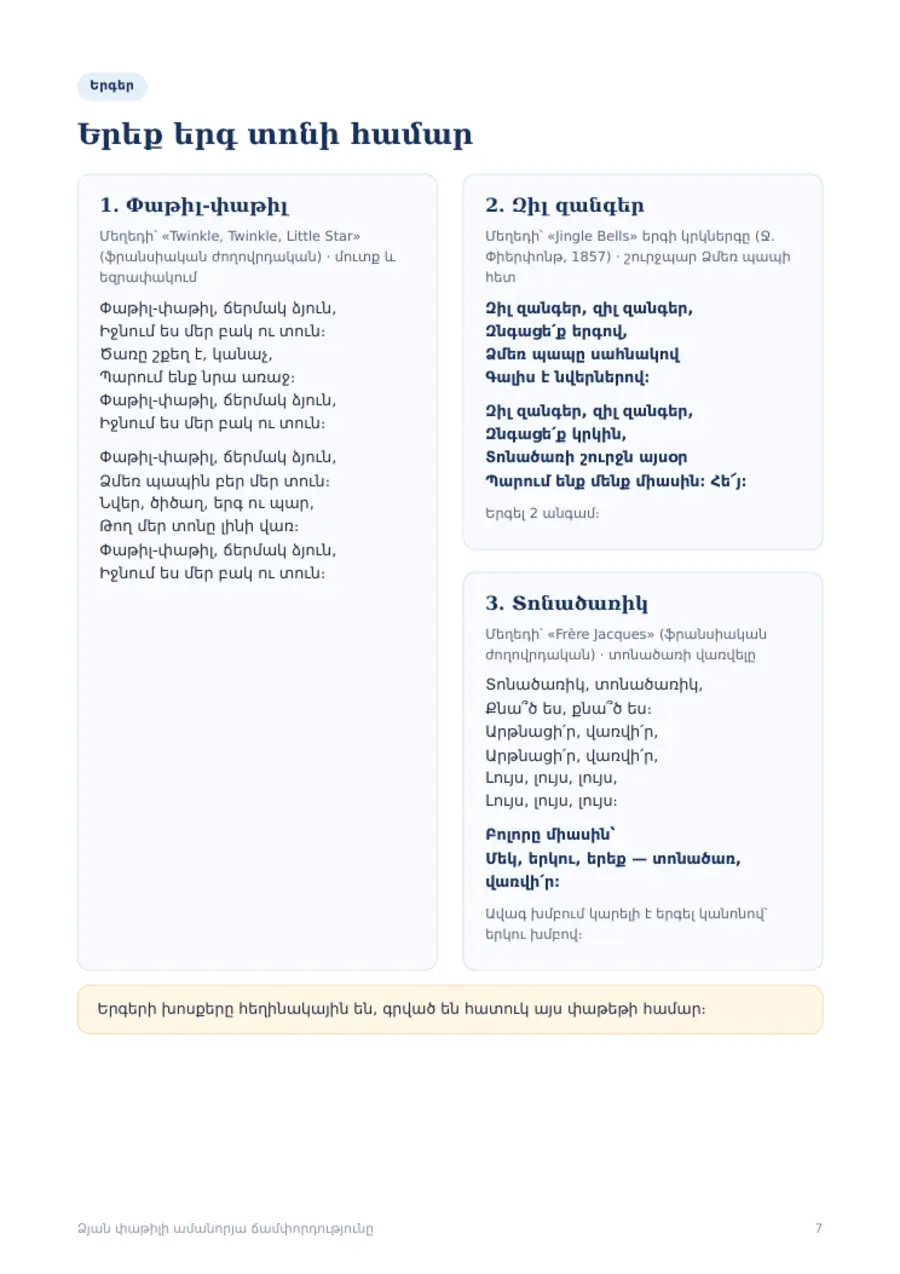
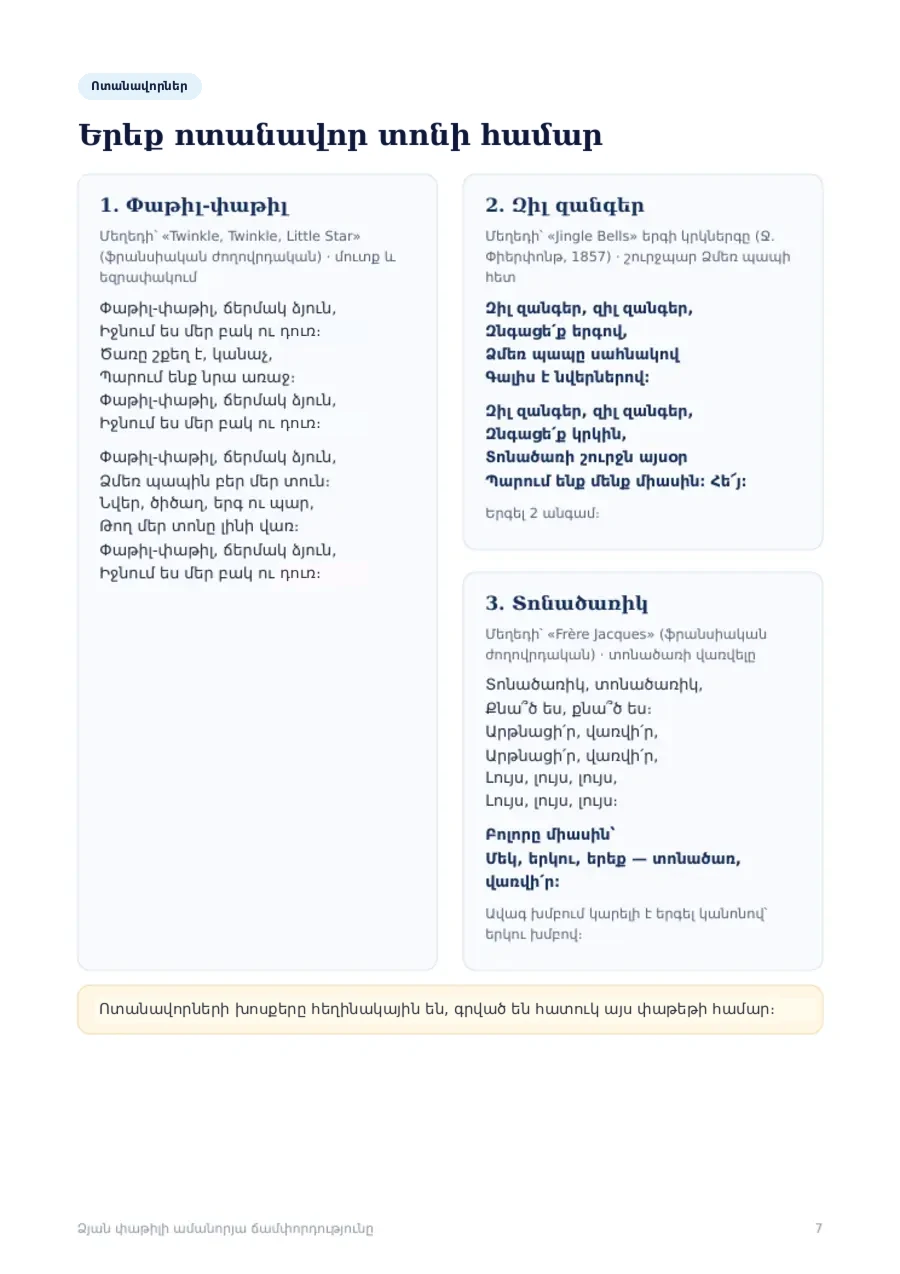
Snowflake kit: poems not songs, 'բակ ու դուռ'
Claude-Session: https://claude.ai/code/session_01QwsuEPksNUJR3xDYegsczN

diff --git a/index.html b/index.html
@@ -332,7 +332,7 @@ footer{margin-top:40px}
         <p class="desc"><span class="hy">Ձյան փաթիլը, Ձնեմարդը, Նապաստակն ու Աղվեսը երեխաների հետ փնտրում են տոնածառի կորած աստղը, իսկ վերջում գալիս են Ձմեռ պապն ու Ձյունանուշը։ Ամեն ինչ պատրաստ է՝ խոսքերից մինչև մեդալներ։</span><span class="en">Snowflake, Snowman, Bunny and Fox help the children find the tree’s missing star, and Santa arrives at the end. Everything is ready, from the lines to the medals.</span></p>
         <ul>
           <li><span class="hy">սցենար՝ 35–40 րոպե, երաժշտական պլան</span><span class="en">35–40-minute script and music plan</span></li>
-          <li><span class="hy">3 նոր երգ ծանոթ մեղեդիներով</span><span class="en">3 new songs set to well-known tunes</span></li>
+          <li><span class="hy">3 նոր ոտանավոր, որոնք կարելի է երգել ծանոթ մեղեդիներով</span><span class="en">3 new poems that can be sung to well-known tunes</span></li>
           <li><span class="hy">4 խաղ, 5 հանելուկ, տնային խաղ «Որտե՞ղ է նվերը»</span><span class="en">4 games, 5 riddles and a home treasure hunt</span></li>
           <li><span class="hy">հրավիրատոմսեր, մեդալներ, հեքիաթ-գունավորում</span><span class="en">invitations, medals and a story coloring book</span></li>
         </ul>
@@ -346,7 +346,7 @@ footer{margin-top:40px}
         <p style="margin-top:18px"><span class="status"><span class="hy">Առցանց գնումը՝ շուտով</span><span class="en">Online purchase coming soon</span></span></p>
       </div>
       <div class="peek" role="list" aria-label="Էջերի օրինակներ / Sample pages">
-        <figure role="listitem"><img src="img/amanor/patil-yerger.webp" width="900" height="1274" loading="lazy" alt="Երգերի էջը / Songs page"><figcaption><span class="hy">Երեք երգ</span><span class="en">Three songs</span></figcaption></figure>
+        <figure role="listitem"><img src="img/amanor/patil-yerger.webp" width="900" height="1274" loading="lazy" alt="Ոտանավորների էջը / Poems page"><figcaption><span class="hy">Երեք ոտանավոր</span><span class="en">Three poems</span></figcaption></figure>
         <figure role="listitem"><img src="img/amanor/patil-gunavorum.webp" width="900" height="1274" loading="lazy" alt="Գունավորման էջ՝ Ձնեմարդը / Coloring page with the Snowman"><figcaption><span class="hy">Հեքիաթ-գունավորում</span><span class="en">Story coloring page</span></figcaption></figure>
       </div>
     </article>
